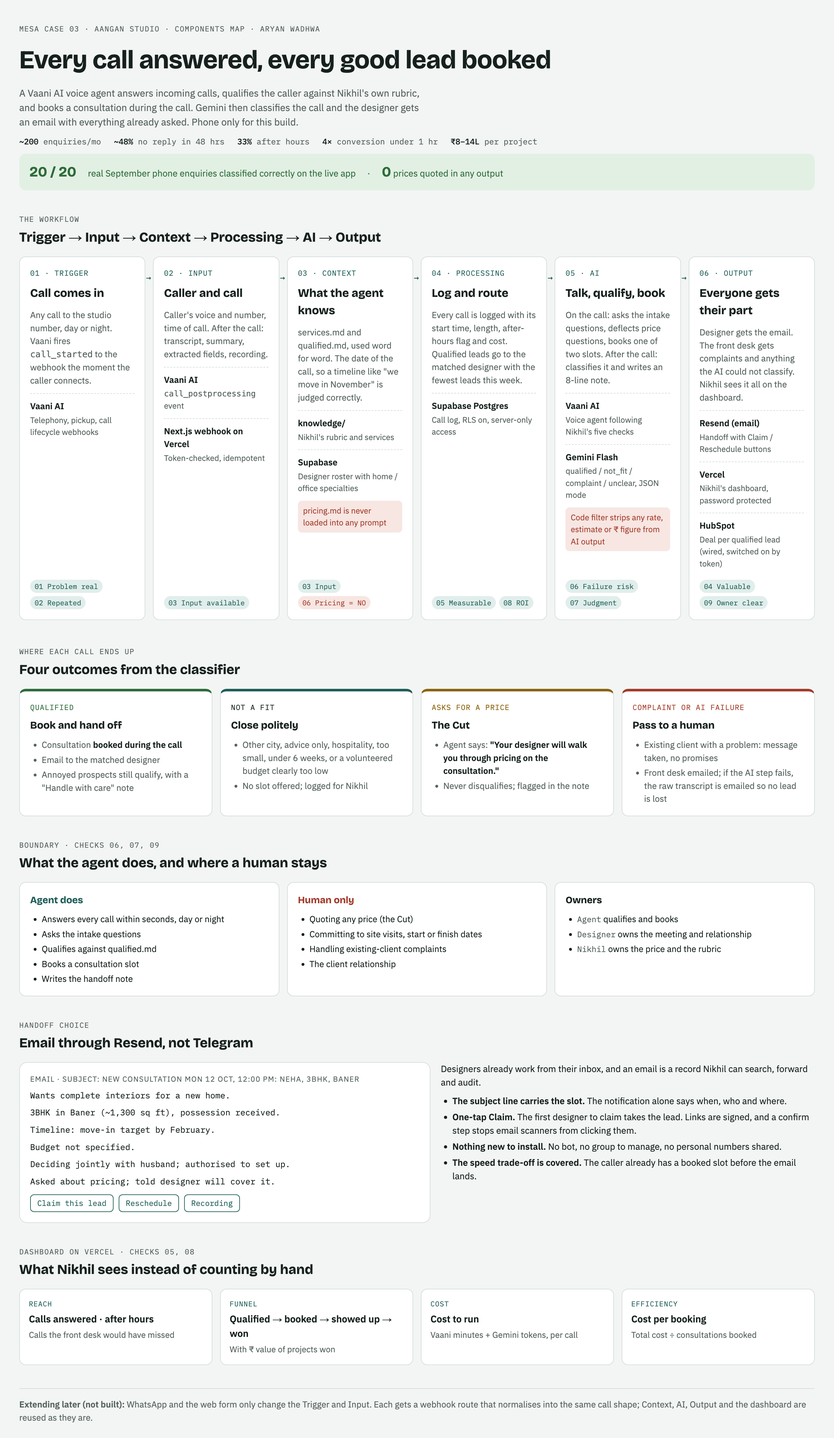
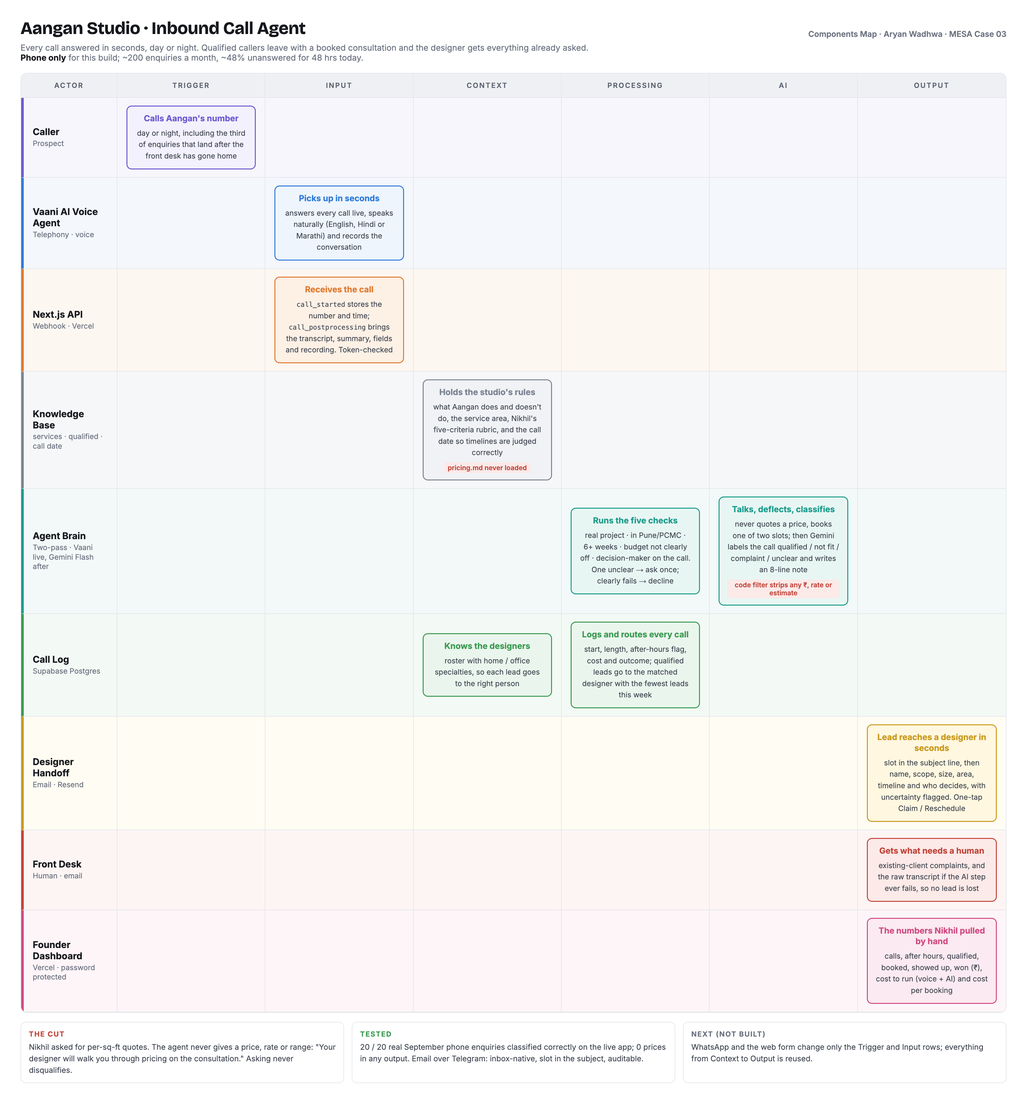
Components map in the swimlane format (actor rows x Trigger-to-Output columns)

diff --git a/docs/component-map.html b/docs/component-map.html
@@ -1,217 +1,117 @@
-<title>Aangan Call Agent Map</title>
+<!doctype html>
+<html lang="en" data-theme="light">
+<head>
+<meta charset="utf-8">
+<meta name="viewport" content="width=device-width,initial-scale=1">
+<title>Aangan Components Map</title>
 <link rel="preconnect" href="https://fonts.googleapis.com">
-<link rel="stylesheet" href="https://fonts.googleapis.com/css2?family=Bricolage+Grotesque:opsz,wght@12..96,500;12..96,700&family=IBM+Plex+Sans:wght@400;500;600&family=IBM+Plex+Mono:wght@400;500&display=swap">
+<link rel="stylesheet" href="https://fonts.googleapis.com/css2?family=Bricolage+Grotesque:opsz,wght@12..96,700&family=Inter:wght@400;500;600;700&display=swap">
 <style>
-/* Layout: one left-to-right pipeline (Trigger → Output), a branch row for call outcomes, then the human boundary, build layer and dashboard. */
+/* Swimlane map: one row per actor, one column per stage (Trigger → Output). */
 :root{
-  --bg:#F3F5F4; --surface:#FFFFFF; --ink:#16211F; --muted:#56635F; --line:#D5DDDA;
-  --accent:#1F5E57; --accent-soft:#E1EEEB;
-  --stop:#A23B2A; --stop-soft:#F7E6E2; --warn:#8A6410; --warn-soft:#F6EDD6; --ok:#2E6B3A; --ok-soft:#E2F0E3;
-  --f-display:"Bricolage Grotesque", "Helvetica Neue", Arial, sans-serif;
-  --f-body:"IBM Plex Sans", "Helvetica Neue", Arial, sans-serif;
-  --f-mono:"IBM Plex Mono", ui-monospace, Menlo, monospace;
+  --bg:#FFFFFF; --ink:#16181D; --muted:#6B7280; --line:#E5E7EB; --head:#EEF0F3;
+  --violet:#6D5BD0; --violet-bg:#F7F6FD; --violet-card:#F3F1FD;
+  --blue:#2F7BD9;   --blue-bg:#F4F7FC;   --blue-card:#EEF5FD;
+  --orange:#E07A2F; --orange-bg:#FDF7F1; --orange-card:#FDF0E5;
+  --grey:#7C8493;   --grey-bg:#F6F7F9;   --grey-card:#F1F2F5;
+  --teal:#1A9C8C;   --teal-bg:#F2F9F8;   --teal-card:#E8F6F3;
+  --green:#3C9A52;  --green-bg:#F3F9F4;  --green-card:#EAF6ED;
+  --amber:#C99A1C;  --amber-bg:#FFFCF3;  --amber-card:#FFF7E0;
+  --red:#C2453A;    --red-bg:#FDF5F4;    --red-card:#FBEAE8;
+  --pink:#D14B82;   --pink-bg:#FDF5F8;   --pink-card:#FBEAF1;
 }
-@media (prefers-color-scheme: dark){:root:not([data-theme="light"]){
-  --bg:#111816; --surface:#19221F; --ink:#E6EDEA; --muted:#9AA8A3; --line:#2C3934;
-  --accent:#6FC2B6; --accent-soft:#1D3530;
-  --stop:#F08A76; --stop-soft:#3A201B; --warn:#E3B95A; --warn-soft:#352B14; --ok:#86CC92; --ok-soft:#1C3220; color-scheme:dark}}
-:root[data-theme="dark"]{
-  --bg:#111816; --surface:#19221F; --ink:#E6EDEA; --muted:#9AA8A3; --line:#2C3934;
-  --accent:#6FC2B6; --accent-soft:#1D3530;
-  --stop:#F08A76; --stop-soft:#3A201B; --warn:#E3B95A; --warn-soft:#352B14; --ok:#86CC92; --ok-soft:#1C3220; color-scheme:dark}
-
 *{box-sizing:border-box}
-body{background:var(--bg);color:var(--ink);font-family:var(--f-body);font-size:15px;line-height:1.5;padding-inline:20px;padding-block:28px 48px}
-.wrap{max-width:1240px;margin:0 auto;display:flex;flex-direction:column;gap:36px}
-h1,h2{font-family:var(--f-display);text-wrap:balance;margin:0}
-h1{font-size:clamp(28px,4vw,40px);font-weight:700;letter-spacing:-.01em}
-h2{font-size:21px;font-weight:700}
-p{margin:0}
-.eyebrow{font-family:var(--f-mono);font-size:11.5px;letter-spacing:.08em;text-transform:uppercase;color:var(--muted)}
-header{display:flex;flex-direction:column;gap:10px}
-header .lede{color:var(--muted);max-width:70ch}
-.stats{display:flex;flex-wrap:wrap;gap:8px 20px;font-family:var(--f-mono);font-size:12.5px;color:var(--muted)}
-.stats b{color:var(--ink);font-weight:500;font-variant-numeric:tabular-nums}
-
-/* pipeline */
-.pipe-scroll{overflow-x:auto;padding-bottom:4px}
-.pipe{display:grid;grid-template-columns:repeat(6,minmax(180px,1fr));gap:12px;min-width:0}
-.result{display:flex;flex-wrap:wrap;gap:8px 18px;align-items:baseline;background:var(--ok-soft);color:var(--ok);border-radius:10px;padding:12px 16px;font-size:14px}
-.result b{font-family:var(--f-display);font-size:22px}
-.stage{background:var(--surface);border:1px solid var(--line);border-radius:10px;padding:16px;display:flex;flex-direction:column;gap:10px;position:relative;min-width:0}
-.stage:not(:last-child)::after{content:"→";position:absolute;right:-12px;top:22px;width:12px;text-align:center;color:var(--accent);font-family:var(--f-mono);font-size:13px}
-.stage .num{font-family:var(--f-mono);font-size:11.5px;color:var(--accent);letter-spacing:.06em}
-.stage h3{font-family:var(--f-display);font-size:18px;margin:0;font-weight:700}
-.stage .does{font-size:13.5px;color:var(--muted)}
-.tool{border-top:1px dashed var(--line);padding-top:9px;display:flex;flex-direction:column;gap:2px}
-.tool .name{font-weight:600;font-size:13.5px}
-.tool .role{font-size:12.5px;color:var(--muted)}
-.checks{display:flex;flex-wrap:wrap;gap:5px;margin-top:auto;padding-top:6px}
-.chk{font-family:var(--f-mono);font-size:11px;padding:2px 7px;border-radius:999px;background:var(--accent-soft);color:var(--accent)}
-.chk.stop{background:var(--stop-soft);color:var(--stop)}
-.excluded{font-size:12.5px;color:var(--stop);background:var(--stop-soft);border-radius:6px;padding:6px 8px}
-
-/* branches */
-.branches{display:grid;grid-template-columns:repeat(auto-fit,minmax(230px,1fr));gap:12px}
-.branch{background:var(--surface);border:1px solid var(--line);border-radius:10px;padding:16px;display:flex;flex-direction:column;gap:8px;border-top:4px solid var(--accent)}
-.branch.ok{border-top-color:var(--ok)} .branch.warn{border-top-color:var(--warn)} .branch.stop{border-top-color:var(--stop)}
-.branch .when{font-family:var(--f-mono);font-size:11.5px;letter-spacing:.06em;text-transform:uppercase}
-.branch.ok .when{color:var(--ok)} .branch.warn .when{color:var(--warn)} .branch.stop .when{color:var(--stop)}
-.branch h3{font-size:16px;margin:0;font-family:var(--f-display)}
-.branch ul{margin:0;padding-left:18px;font-size:13.5px;color:var(--muted);display:flex;flex-direction:column;gap:3px}
-.branch li b{color:var(--ink);font-weight:600}
-
-section{display:flex;flex-direction:column;gap:14px}
-.section-head{display:flex;flex-direction:column;gap:4px}
-.section-head p{color:var(--muted);font-size:14px;max-width:75ch}
-
-/* boundary */
-.boundary{display:grid;grid-template-columns:repeat(auto-fit,minmax(260px,1fr));gap:12px}
-.col{background:var(--surface);border:1px solid var(--line);border-radius:10px;padding:16px;display:flex;flex-direction:column;gap:8px}
-.col h3{margin:0;font-size:15px;font-family:var(--f-display)}
-.col.agent h3{color:var(--accent)} .col.human h3{color:var(--stop)}
-.col ul{margin:0;padding-left:18px;font-size:13.5px;display:flex;flex-direction:column;gap:3px}
-.owner{font-family:var(--f-mono);font-size:12.5px;color:var(--muted)}
-
-/* handoff note */
-.two{display:grid;grid-template-columns:minmax(0,1.1fr) minmax(0,1fr);gap:16px}
-.note{background:var(--surface);border:1px solid var(--line);border-radius:12px;padding:16px;font-family:var(--f-mono);font-size:13px;line-height:1.6;display:flex;flex-direction:column;gap:6px}
-.note .tg{font-family:var(--f-body);font-size:11.5px;color:var(--muted);text-transform:uppercase;letter-spacing:.08em}
-.note .btns{display:flex;gap:8px;flex-wrap:wrap;margin-top:4px}
-.note .btns span{border:1px solid var(--accent);color:var(--accent);border-radius:6px;padding:3px 10px;font-size:12px}
-.why{display:flex;flex-direction:column;gap:8px;font-size:14px}
-.why ul{margin:0;padding-left:18px;display:flex;flex-direction:column;gap:4px}
-
-/* build + dashboard */
-.grid4{display:grid;grid-template-columns:repeat(auto-fit,minmax(210px,1fr));gap:12px}
-.mini{background:var(--surface);border:1px solid var(--line);border-radius:10px;padding:14px;display:flex;flex-direction:column;gap:4px}
-.mini .name{font-weight:600}
-.mini .role{font-size:13px;color:var(--muted)}
-.mini .k{font-family:var(--f-mono);font-size:11px;letter-spacing:.06em;text-transform:uppercase;color:var(--accent)}
-.foot{font-size:13.5px;color:var(--muted);border-top:1px solid var(--line);padding-top:14px}
-
-@media (max-width:760px){
-  .pipe{grid-template-columns:1fr}
-  .stage:not(:last-child)::after{content:"↓";right:auto;left:50%;top:auto;bottom:-14px}
-  .two{grid-template-columns:1fr}
-}
+body{margin:0;background:var(--bg);color:var(--ink);font-family:Inter,"Helvetica Neue",Arial,sans-serif;padding:28px 32px 32px}
+.top{display:flex;justify-content:space-between;align-items:flex-end;gap:16px;margin-bottom:6px}
+h1{font-family:"Bricolage Grotesque",Inter,sans-serif;font-size:27px;margin:0;letter-spacing:-.01em}
+.tag{font-size:12.5px;font-weight:600;color:var(--muted)}
+.sub{font-size:13px;color:var(--muted);margin:0 0 16px;max-width:110ch}
+.sub b{color:var(--ink)}
+.grid{display:grid;grid-template-columns:150px repeat(6,minmax(0,1fr));border:1px solid var(--line);border-radius:10px;overflow:hidden}
+.h{background:var(--head);font-size:11px;font-weight:600;letter-spacing:.14em;text-transform:uppercase;color:#5B6270;text-align:center;padding:12px 6px;border-right:1px solid var(--line);border-bottom:1px solid var(--line)}
+.h:nth-child(7){border-right:0}
+.cell{border-right:1px solid var(--line);border-bottom:1px solid var(--line);padding:12px 14px;min-height:118px;display:flex;align-items:center;justify-content:center}
+.cell:nth-child(7n){border-right:0}
+.actor{justify-content:flex-start;align-items:center;border-left:4px solid var(--c);padding-left:14px}
+.actor div{display:flex;flex-direction:column;gap:2px}
+.actor b{font-size:14.5px;line-height:1.2}
+.actor span{font-size:11.5px;color:var(--muted);line-height:1.3}
+.card{background:var(--card);border:1.5px solid var(--c);border-radius:8px;padding:10px 12px;text-align:center;width:100%}
+.card h3{margin:0 0 6px;font-size:13px;font-weight:700;color:var(--c);line-height:1.3}
+.card p{margin:0;font-size:11.5px;line-height:1.55;color:#3F4550}
+.card code{font-size:10.5px}
+.card .x{display:inline-block;margin-top:6px;font-size:10.5px;font-weight:600;color:var(--red);background:var(--red-card);border-radius:4px;padding:2px 6px}
+.r-violet{--c:var(--violet);--card:var(--violet-card)} .r-violet.cell{background:var(--violet-bg)}
+.r-blue{--c:var(--blue);--card:var(--blue-card)}       .r-blue.cell{background:var(--blue-bg)}
+.r-orange{--c:var(--orange);--card:var(--orange-card)} .r-orange.cell{background:var(--orange-bg)}
+.r-grey{--c:var(--grey);--card:var(--grey-card)}       .r-grey.cell{background:var(--grey-bg)}
+.r-teal{--c:var(--teal);--card:var(--teal-card)}       .r-teal.cell{background:var(--teal-bg)}
+.r-green{--c:var(--green);--card:var(--green-card)}    .r-green.cell{background:var(--green-bg)}
+.r-amber{--c:var(--amber);--card:var(--amber-card)}    .r-amber.cell{background:var(--amber-bg)}
+.r-red{--c:var(--red);--card:var(--red-card)}          .r-red.cell{background:var(--red-bg)}
+.r-pink{--c:var(--pink);--card:var(--pink-card)}       .r-pink.cell{background:var(--pink-bg)}
+.foot{display:grid;grid-template-columns:repeat(3,minmax(0,1fr));gap:12px;margin-top:14px}
+.f{border:1px solid var(--line);border-radius:8px;padding:10px 12px;font-size:12px;line-height:1.5;color:#3F4550}
+.f b{display:block;font-size:11px;letter-spacing:.1em;text-transform:uppercase;margin-bottom:3px}
+.f.cut b{color:var(--red)} .f.res b{color:var(--green)} .f.ext b{color:var(--muted)}
+@media (max-width:900px){body{padding:16px}.grid{overflow-x:auto;grid-template-columns:120px repeat(6,180px)}.foot{grid-template-columns:1fr}}
 </style>
+</head>
+<body>
+<div class="top"><h1>Aangan Studio · Inbound Call Agent</h1><span class="tag">Components Map · Aryan Wadhwa · MESA Case 03</span></div>
+<p class="sub">Every call answered in seconds, day or night. Qualified callers leave with a booked consultation and the designer gets everything already asked. <b>Phone only</b> for this build; ~200 enquiries a month, ~48% unanswered for 48 hrs today.</p>
 
-<div class="wrap">
-<header>
-  <span class="eyebrow">MESA Case 03 · Aangan Studio · Components Map · Aryan Wadhwa</span>
-  <h1>Every call answered, every good lead booked</h1>
-  <p class="lede">A Vaani AI voice agent answers incoming calls, qualifies the caller against Nikhil's own rubric, and books a consultation during the call. Gemini then classifies the call and the designer gets an email with everything already asked. Phone only for this build.</p>
-  <div class="stats"><span><b>~200</b> enquiries/mo</span><span><b>~48%</b> no reply in 48 hrs</span><span><b>33%</b> after hours</span><span><b>4×</b> conversion under 1 hr</span><span><b>₹8–14L</b> per project</span></div>
-  <div class="result"><b>20 / 20</b><span>real September phone enquiries classified correctly on the live app</span><span>·</span><span><b>0</b> prices quoted in any output</span></div>
-</header>
+<div class="grid">
+  <div class="h">Actor</div><div class="h">Trigger</div><div class="h">Input</div><div class="h">Context</div><div class="h">Processing</div><div class="h">AI</div><div class="h">Output</div>
 
-<section>
-  <div class="section-head"><span class="eyebrow">The workflow</span><h2>Trigger → Input → Context → Processing → AI → Output</h2></div>
-  <div class="pipe-scroll"><div class="pipe">
-    <div class="stage">
-      <span class="num">01 · TRIGGER</span><h3>Call comes in</h3>
-      <p class="does">Any call to the studio number, day or night. Vaani fires <code>call_started</code> to the webhook the moment the caller connects.</p>
-      <div class="tool"><span class="name">Vaani AI</span><span class="role">Telephony, pickup, call lifecycle webhooks</span></div>
-      <div class="checks"><span class="chk">01 Problem real</span><span class="chk">02 Repeated</span></div>
-    </div>
-    <div class="stage">
-      <span class="num">02 · INPUT</span><h3>Caller and call</h3>
-      <p class="does">Caller's voice and number, time of call. After the call: transcript, summary, extracted fields, recording.</p>
-      <div class="tool"><span class="name">Vaani AI</span><span class="role"><code>call_postprocessing</code> event</span></div>
-      <div class="tool"><span class="name">Next.js webhook on Vercel</span><span class="role">Token-checked, idempotent</span></div>
-      <div class="checks"><span class="chk">03 Input available</span></div>
-    </div>
-    <div class="stage">
-      <span class="num">03 · CONTEXT</span><h3>What the agent knows</h3>
-      <p class="does">services.md and qualified.md, used word for word. The date of the call, so a timeline like "we move in November" is judged correctly.</p>
-      <div class="tool"><span class="name">knowledge/</span><span class="role">Nikhil's rubric and services</span></div>
-      <div class="tool"><span class="name">Supabase</span><span class="role">Designer roster with home / office specialties</span></div>
-      <p class="excluded">pricing.md is never loaded into any prompt</p>
-      <div class="checks"><span class="chk">03 Input</span><span class="chk stop">06 Pricing = NO</span></div>
-    </div>
-    <div class="stage">
-      <span class="num">04 · PROCESSING</span><h3>Log and route</h3>
-      <p class="does">Every call is logged with its start time, length, after-hours flag and cost. Qualified leads go to the matched designer with the fewest leads this week.</p>
-      <div class="tool"><span class="name">Supabase Postgres</span><span class="role">Call log, RLS on, server-only access</span></div>
-      <div class="checks"><span class="chk">05 Measurable</span><span class="chk">08 ROI</span></div>
-    </div>
-    <div class="stage">
-      <span class="num">05 · AI</span><h3>Talk, qualify, book</h3>
-      <p class="does">On the call: asks the intake questions, deflects price questions, books one of two slots. After the call: classifies it and writes an 8-line note.</p>
-      <div class="tool"><span class="name">Vaani AI</span><span class="role">Voice agent following Nikhil's five checks</span></div>
-      <div class="tool"><span class="name">Gemini Flash</span><span class="role">qualified / not_fit / complaint / unclear, JSON mode</span></div>
-      <p class="excluded">Code filter strips any rate, estimate or ₹ figure from AI output</p>
-      <div class="checks"><span class="chk">06 Failure risk</span><span class="chk">07 Judgment</span></div>
-    </div>
-    <div class="stage">
-      <span class="num">06 · OUTPUT</span><h3>Everyone gets their part</h3>
-      <p class="does">Designer gets the email. The front desk gets complaints and anything the AI could not classify. Nikhil sees it all on the dashboard.</p>
-      <div class="tool"><span class="name">Resend (email)</span><span class="role">Handoff with Claim / Reschedule buttons</span></div>
-      <div class="tool"><span class="name">Vercel</span><span class="role">Nikhil's dashboard, password protected</span></div>
-      <div class="tool"><span class="name">HubSpot</span><span class="role">Deal per qualified lead (wired, switched on by token)</span></div>
-      <div class="checks"><span class="chk">04 Valuable</span><span class="chk">09 Owner clear</span></div>
-    </div>
-  </div></div>
-</section>
+  <div class="cell actor r-violet"><div><b>Caller</b><span>Prospect</span></div></div>
+  <div class="cell r-violet"><div class="card"><h3>Calls Aangan's number</h3><p>day or night, including the third of enquiries that land after the front desk has gone home</p></div></div>
+  <div class="cell r-violet"></div><div class="cell r-violet"></div><div class="cell r-violet"></div><div class="cell r-violet"></div><div class="cell r-violet"></div>
 
-<section>
-  <div class="section-head"><span class="eyebrow">Where each call ends up</span><h2>Four outcomes from the classifier</h2></div>
-  <div class="branches">
-    <div class="branch ok"><span class="when">Qualified</span><h3>Book and hand off</h3>
-      <ul><li>Consultation <b>booked during the call</b></li><li>Email to the matched designer</li><li>Annoyed prospects still qualify, with a "Handle with care" note</li></ul></div>
-    <div class="branch"><span class="when">Not a fit</span><h3>Close politely</h3>
-      <ul><li>Other city, advice only, hospitality, too small, under 6 weeks, or a volunteered budget clearly too low</li><li>No slot offered; logged for Nikhil</li></ul></div>
-    <div class="branch warn"><span class="when">Asks for a price</span><h3>The Cut</h3>
-      <ul><li>Agent says: <b>"Your designer will walk you through pricing on the consultation."</b></li><li>Never disqualifies; flagged in the note</li></ul></div>
-    <div class="branch stop"><span class="when">Complaint or AI failure</span><h3>Pass to a human</h3>
-      <ul><li>Existing client with a problem: message taken, no promises</li><li>Front desk emailed; if the AI step fails, the raw transcript is emailed so no lead is lost</li></ul></div>
-  </div>
-</section>
+  <div class="cell actor r-blue"><div><b>Vaani AI Voice Agent</b><span>Telephony · voice</span></div></div>
+  <div class="cell r-blue"></div>
+  <div class="cell r-blue"><div class="card"><h3>Picks up in seconds</h3><p>answers every call live, speaks naturally (English, Hindi or Marathi) and records the conversation</p></div></div>
+  <div class="cell r-blue"></div><div class="cell r-blue"></div><div class="cell r-blue"></div><div class="cell r-blue"></div>
 
-<section>
-  <div class="section-head"><span class="eyebrow">Boundary · checks 06, 07, 09</span><h2>What the agent does, and where a human stays</h2></div>
-  <div class="boundary">
-    <div class="col agent"><h3>Agent does</h3><ul><li>Answers every call within seconds, day or night</li><li>Asks the intake questions</li><li>Qualifies against qualified.md</li><li>Books a consultation slot</li><li>Writes the handoff note</li></ul></div>
-    <div class="col human"><h3>Human only</h3><ul><li>Quoting any price (the Cut)</li><li>Committing to site visits, start or finish dates</li><li>Handling existing-client complaints</li><li>The client relationship</li></ul></div>
-    <div class="col"><h3>Owners</h3><ul><li><span class="owner">Agent</span> qualifies and books</li><li><span class="owner">Designer</span> owns the meeting and relationship</li><li><span class="owner">Nikhil</span> owns the price and the rubric</li></ul></div>
-  </div>
-</section>
+  <div class="cell actor r-orange"><div><b>Next.js API</b><span>Webhook · Vercel</span></div></div>
+  <div class="cell r-orange"></div>
+  <div class="cell r-orange"><div class="card"><h3>Receives the call</h3><p><code>call_started</code> stores the number and time; <code>call_postprocessing</code> brings the transcript, summary, fields and recording. Token-checked</p></div></div>
+  <div class="cell r-orange"></div><div class="cell r-orange"></div><div class="cell r-orange"></div><div class="cell r-orange"></div>
 
-<section>
-  <div class="section-head"><span class="eyebrow">Handoff choice</span><h2>Email through Resend, not Telegram</h2></div>
-  <div class="two">
-    <div class="note">
-      <span class="tg">Email · Subject: New consultation Mon 12 Oct, 12:00 pm: Neha, 3BHK, Baner</span>
-      <span>Wants complete interiors for a new home.</span>
-      <span>3BHK in Baner (~1,300 sq ft), possession received.</span>
-      <span>Timeline: move-in target by February.</span>
-      <span>Budget not specified.</span>
-      <span>Deciding jointly with husband; authorised to set up.</span>
-      <span>Asked about pricing; told designer will cover it.</span>
-      <div class="btns"><span>Claim this lead</span><span>Reschedule</span><span>Recording</span></div>
-    </div>
-    <div class="why">
-      <p>Designers already work from their inbox, and an email is a record Nikhil can search, forward and audit.</p>
-      <ul>
-        <li><b>The subject line carries the slot.</b> The notification alone says when, who and where.</li>
-        <li><b>One-tap Claim.</b> The first designer to claim takes the lead. Links are signed, and a confirm step stops email scanners from clicking them.</li>
-        <li><b>Nothing new to install.</b> No bot, no group to manage, no personal numbers shared.</li>
-        <li><b>The speed trade-off is covered.</b> The caller already has a booked slot before the email lands.</li>
-      </ul>
-    </div>
-  </div>
-</section>
+  <div class="cell actor r-grey"><div><b>Knowledge Base</b><span>services · qualified · call date</span></div></div>
+  <div class="cell r-grey"></div><div class="cell r-grey"></div>
+  <div class="cell r-grey"><div class="card"><h3>Holds the studio's rules</h3><p>what Aangan does and doesn't do, the service area, Nikhil's five-criteria rubric, and the call date so timelines are judged correctly</p><span class="x">pricing.md never loaded</span></div></div>
+  <div class="cell r-grey"></div><div class="cell r-grey"></div><div class="cell r-grey"></div>
 
-<section>
-  <div class="section-head"><span class="eyebrow">Dashboard on Vercel · checks 05, 08</span><h2>What Nikhil sees instead of counting by hand</h2></div>
-  <div class="grid4">
-    <div class="mini"><span class="k">Reach</span><span class="name">Calls answered · after hours</span><span class="role">Calls the front desk would have missed</span></div>
-    <div class="mini"><span class="k">Funnel</span><span class="name">Qualified → booked → showed up → won</span><span class="role">With ₹ value of projects won</span></div>
-    <div class="mini"><span class="k">Cost</span><span class="name">Cost to run</span><span class="role">Vaani minutes + Gemini tokens, per call</span></div>
-    <div class="mini"><span class="k">Efficiency</span><span class="name">Cost per booking</span><span class="role">Total cost ÷ consultations booked</span></div>
-  </div>
-</section>
+  <div class="cell actor r-teal"><div><b>Agent Brain</b><span>Two-pass · Vaani live, Gemini Flash after</span></div></div>
+  <div class="cell r-teal"></div><div class="cell r-teal"></div><div class="cell r-teal"></div>
+  <div class="cell r-teal"><div class="card"><h3>Runs the five checks</h3><p>real project · in Pune/PCMC · 6+ weeks · budget not clearly off · decision-maker on the call. One unclear → ask once; clearly fails → decline</p></div></div>
+  <div class="cell r-teal"><div class="card"><h3>Talks, deflects, classifies</h3><p>never quotes a price, books one of two slots; then Gemini labels the call qualified / not fit / complaint / unclear and writes an 8-line note</p><span class="x">code filter strips any ₹, rate or estimate</span></div></div>
+  <div class="cell r-teal"></div>
 
-<p class="foot"><b>Extending later (not built):</b> WhatsApp and the web form only change the Trigger and Input. Each gets a webhook route that normalises into the same call shape; Context, AI, Output and the dashboard are reused as they are.</p>
+  <div class="cell actor r-green"><div><b>Call Log</b><span>Supabase Postgres</span></div></div>
+  <div class="cell r-green"></div><div class="cell r-green"></div>
+  <div class="cell r-green"><div class="card"><h3>Knows the designers</h3><p>roster with home / office specialties, so each lead goes to the right person</p></div></div>
+  <div class="cell r-green"><div class="card"><h3>Logs and routes every call</h3><p>start, length, after-hours flag, cost and outcome; qualified leads go to the matched designer with the fewest leads this week</p></div></div>
+  <div class="cell r-green"></div><div class="cell r-green"></div>
+
+  <div class="cell actor r-amber"><div><b>Designer Handoff</b><span>Email · Resend</span></div></div>
+  <div class="cell r-amber"></div><div class="cell r-amber"></div><div class="cell r-amber"></div><div class="cell r-amber"></div><div class="cell r-amber"></div>
+  <div class="cell r-amber"><div class="card"><h3>Lead reaches a designer in seconds</h3><p>slot in the subject line, then name, scope, size, area, timeline and who decides, with uncertainty flagged. One-tap Claim / Reschedule</p></div></div>
+
+  <div class="cell actor r-red"><div><b>Front Desk</b><span>Human · email</span></div></div>
+  <div class="cell r-red"></div><div class="cell r-red"></div><div class="cell r-red"></div><div class="cell r-red"></div><div class="cell r-red"></div>
+  <div class="cell r-red"><div class="card"><h3>Gets what needs a human</h3><p>existing-client complaints, and the raw transcript if the AI step ever fails, so no lead is lost</p></div></div>
+
+  <div class="cell actor r-pink"><div><b>Founder Dashboard</b><span>Vercel · password protected</span></div></div>
+  <div class="cell r-pink"></div><div class="cell r-pink"></div><div class="cell r-pink"></div><div class="cell r-pink"></div><div class="cell r-pink"></div>
+  <div class="cell r-pink"><div class="card"><h3>The numbers Nikhil pulled by hand</h3><p>calls, after hours, qualified, booked, showed up, won (₹), cost to run (voice + AI) and cost per booking</p></div></div>
 </div>
+
+<div class="foot">
+  <div class="f cut"><b>The Cut</b>Nikhil asked for per-sq-ft quotes. The agent never gives a price, rate or range: "Your designer will walk you through pricing on the consultation." Asking never disqualifies.</div>
+  <div class="f res"><b>Tested</b>20 / 20 real September phone enquiries classified correctly on the live app; 0 prices in any output. Email over Telegram: inbox-native, slot in the subject, auditable.</div>
+  <div class="f ext"><b>Next (not built)</b>WhatsApp and the web form change only the Trigger and Input rows; everything from Context to Output is reused.</div>
+</div>
+</body>
+</html>
